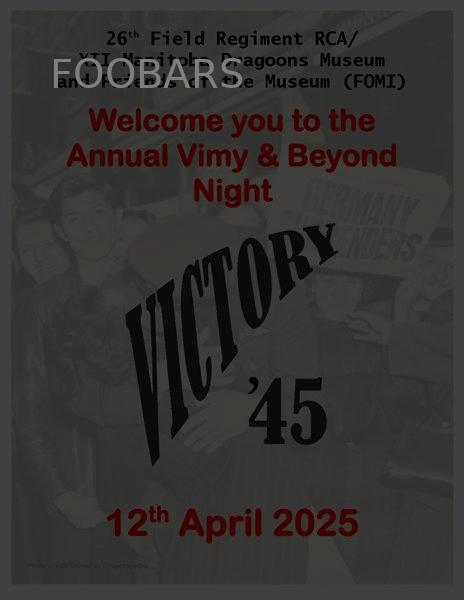
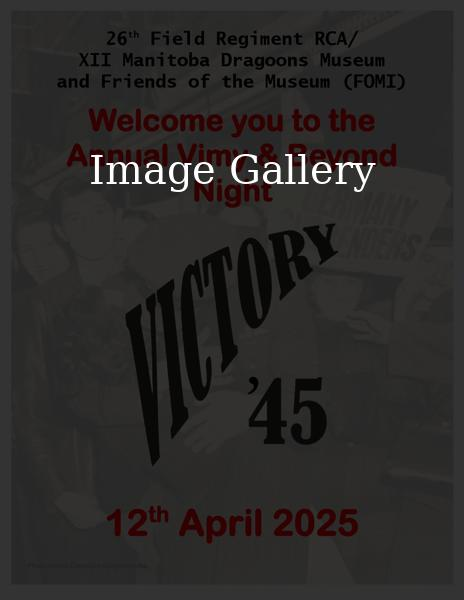
thumbnail working

diff --git a/public/displays/vimy-2025/index.html b/public/displays/vimy-2025/index.html
@@ -12,3 +12,66 @@
 <body>
   <main class="container">
 
+    <section id="vimy-2025">
+      <article>
+        <h1 class="msm__section-title">Vimy & Beyond Night 2025</h1>
+            
+
+        <div class="pswp-gallery" id="my-gallery" style="text-align: center">
+            <a
+              class="album"
+              href="https://cdn.photoswipe.com/photoswipe-demo-images/photos/1/img-2500.jpg"
+              data-pswp-width="1875"
+              data-pswp-height="2500"
+              target="_blank"
+            >
+              <img
+                class="msm__carousel-launch-img"
+                src="https://cdn.photoswipe.com/photoswipe-demo-images/photos/1/img-2500.jpg"
+                alt=""
+              />
+            </a>
+            <a
+              href="https://cdn.photoswipe.com/photoswipe-demo-images/photos/2/img-2500.jpg"
+              data-pswp-width="1669"
+              data-pswp-height="2500"
+              target="_blank"
+            >
+            </a>
+            <a
+              href="https://cdn.photoswipe.com/photoswipe-demo-images/photos/3/img-2500.jpg"
+              data-pswp-width="2500"
+              data-pswp-height="1666"
+              target="_blank"
+            >
+            </a>
+        </div>
+
+        <script type="module">
+            import PhotoSwipeLightbox from '/static/js/photoswipe-lightbox.esm.js';
+
+            const lightbox = new PhotoSwipeLightbox({
+                gallery: '#my-gallery',
+                children: 'a',
+                zoomSVG: '&#128269;',
+                closeSVG: 'X',
+                pswpModule: () => import('/static/js/photoswipe.esm.js'),
+            });
+
+            lightbox.init();
+            // const zoomButton = document.getElementsByClassName('pswp__button--zoom')[0];
+            // zoomButton.remove()
+        </script>
+
+
+
+
+        This is a test
+
+
+      </article>
+    </section>
+
+  </main>
+</body>
+</html>

diff --git a/build.py b/build.py
@@ -20,11 +20,12 @@ IMG_GLOBS = [
 ]
 GALLERY_THUMBNAIL_FILENAME = "thumb.jpg"
 GALLERY_THUMBNAIL_SIZE = (600,600)
+GALLERY_THUMBNAIL_DARKEN = 0.2
 GALLERY_THUMBNAIL_TEXT = "Image Gallery"
 GALLERY_THUMBNAIL_TEXT_POSITION = (50, 50)
 GALLERY_THUMBNAIL_TEXT_COLOR = (255, 255, 255)
 try:
-    GALLERY_THUMBNAIL_FONT = ImageFont.truetype("DejaVuSans.ttf", 40)
+    GALLERY_THUMBNAIL_FONT = ImageFont.truetype("DejaVuSerif.ttf", 40)
 except IOError:
     print("Font 'arial.ttf' not found. Using default font.")
     GALLERY_THUMBNAIL_FONT = ImageFont.load_default()
@@ -48,13 +49,17 @@ class SectionExtension(ContainerTag):
 
 def create_thumbnail(src_image):
     thumb_dst = src_image.parent / GALLERY_THUMBNAIL_FILENAME
+    if thumb_dst.exists():
+        thumb_dst.unlink()
     img = Image.open(src_image)
     thumb_img = img.copy()
     thumb_img.thumbnail(GALLERY_THUMBNAIL_SIZE)
-    thumb_draw = ImageDraw.Draw(thumb_img)
-    thumb_draw.text(GALLERY_THUMBNAIL_TEXT_POSITION, GALLERY_THUMBNAIL_TEXT, font=GALLERY_THUMBNAIL_FONT, fill=GALLERY_THUMBNAIL_TEXT_COLOR)
     enhancer = ImageEnhance.Brightness(thumb_img)
-    thumb_img = enhancer.enhance(0.5) # 50% less bright
+    thumb_img = enhancer.enhance(GALLERY_THUMBNAIL_DARKEN)
+    thumb_draw = ImageDraw.Draw(thumb_img)
+    text_posn_x = (thumb_img.width // 2)
+    text_posn_y = (thumb_img.width // 3)
+    thumb_draw.text((text_posn_x, text_posn_y), GALLERY_THUMBNAIL_TEXT, font=GALLERY_THUMBNAIL_FONT, fill=GALLERY_THUMBNAIL_TEXT_COLOR, anchor="mt")
     thumb_img.save(thumb_dst)
     thumb_img.show()
 
@@ -64,7 +69,7 @@ def carousel_global(static_dir):
     thumbnail = None
     for g in IMG_GLOBS:
         for found_img in (Path("public") / Path(static_dir)).glob(g):
-            if not thumbnail:
+            if not thumbnail and found_img.name != GALLERY_THUMBNAIL_FILENAME:
                 create_thumbnail(found_img)
                 thumbnail = True
             images.append(Path("/") / Path(*found_img.parts[1:]))
